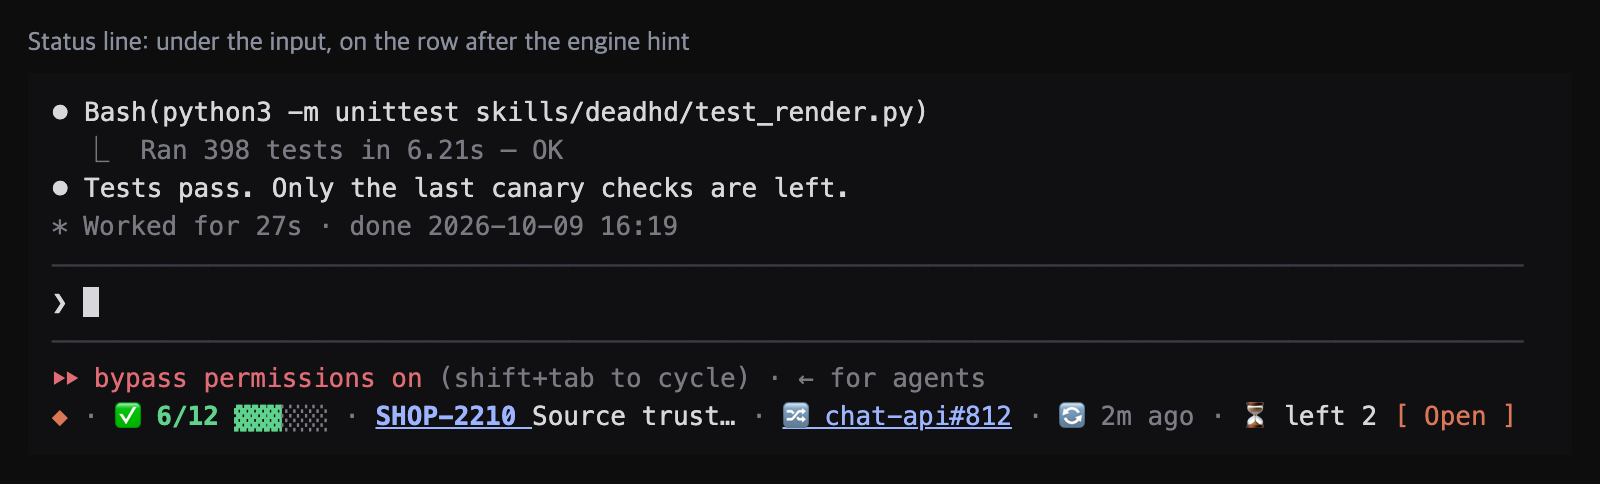
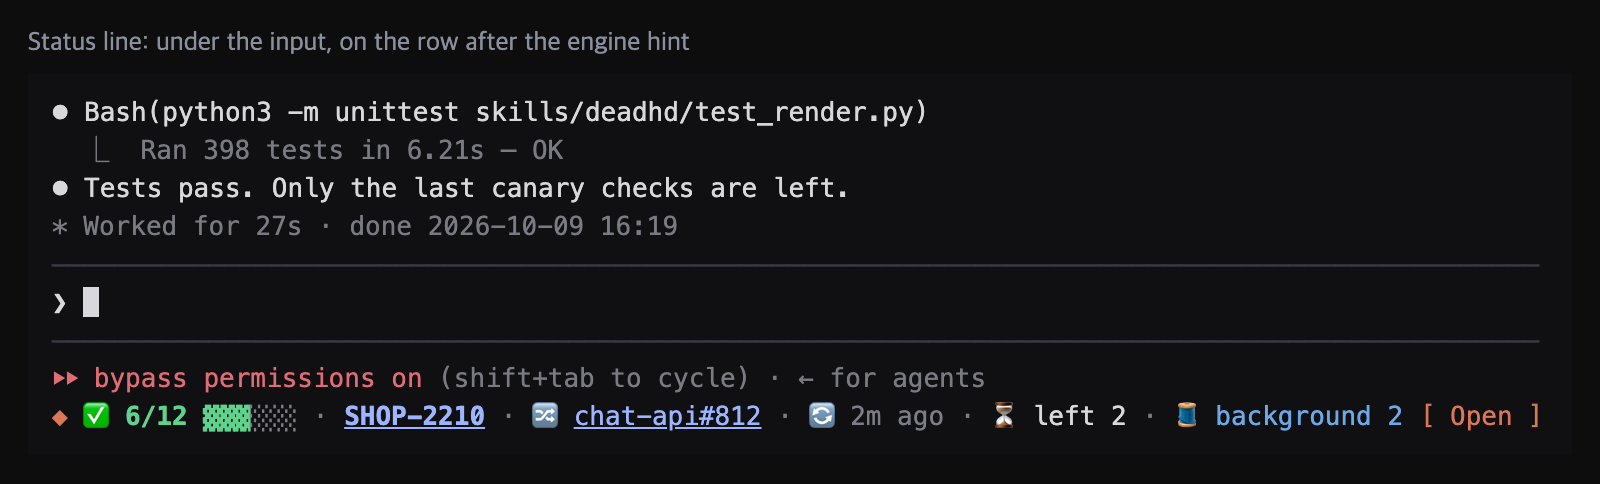
fix: 상태줄 표지 뒤 구분점과 링크 밑줄 범위 정리

Changed region(s): [[0.0312, 0.8058, 0.9688, 0.8988]]

diff --git a/skills/deadhd/hooks/register.test.ts b/skills/deadhd/hooks/register.test.ts
@@ -307,9 +307,15 @@ const FOLDED_GUIDE = '/deadhd-statusline 펼치기'
 /** The pull request the sample's running step carries, as the row draws it. */
 const PR_PIECE = '🔀 app-api#512'
 
+/** The pull request's own words: the part the link wraps, the mark left outside it. */
+const PR_TEXT = 'app-api#512'
+
+/** The mark and the count as one piece: no separator falls between them. */
+const MARK_COUNT = `${STATUS_MARK} ✅ 3/6`
+
 /** The whole long row the sample draws, piece by piece. */
 const LONG_ROW =
-  `${STATUS_MARK} · ✅ 3/6 ▓▓▓░░░ · CAS-1161 콘솔 dev 회귀 3회차 · ` +
+  `${STATUS_MARK} ✅ 3/6 ▓▓▓░░░ · CAS-1161 콘솔 dev 회귀 3회차 · ` +
   '▶ 실제 화면 확인 4분째 · 🔀 app-api#512 · ⏭ 다음 정리 · ⏱ 예상 16:20 · 🔄 2분 전 · ' +
   '⛔ 막힘 1: 배포 검증 · ⏳ 남음 2 · 🧵 백그라운드 2 · 🗜 압축 1'
 
@@ -703,12 +709,27 @@ describe('the status hint', () => {
         'https://github.com/example/app-api/pull/512',
       ])
       expect(textOf(links[0])).toBe('CAS-1161')
-      expect(textOf(links[1])).toBe(PR_PIECE)
+      expect(textOf(links[1])).toBe(PR_TEXT)
+      expect(drawn).toContain(PR_PIECE)
       expect(drawn).toContain('열기')
 
       await ui.unmount()
     })
   }
+
+  test('links the key and the pull request words alone, their neighbours left outside', async ($, on) => {
+    statusWorld(on, filesOf(statusState({}, { title: '다른 제목' })))
+
+    await $.session.start(SESSION)
+
+    const ui = await $.ui.mount({ ...MOUNT_HINT, surface: 'terminal' })
+    const links = await ui.findAll({ type: 'Link' })
+
+    expect(textOf(links[0])).toBe('CAS-1161')
+    expect(textOf(links[1])).toBe(PR_TEXT)
+
+    await ui.unmount()
+  })
 
   test('keeps the button and the way back on the folded row', async ($, on) => {
     statusWorld(on, filesOf(statusState()))
@@ -782,7 +803,8 @@ describe('the status hint', () => {
         color: 'suggestion',
         bold: true,
       })
-      expect(pieceOf(painted, PR_PIECE)).toMatchObject({ color: 'permission' })
+      expect(pieceOf(painted, '🔀')).toMatchObject({ color: 'permission' })
+      expect(pieceOf(painted, PR_TEXT)).toMatchObject({ color: 'permission' })
       expect(pieceOf(painted, '⏭ 다음 정리')?.color).toBe('inactive')
       expect(pieceOf(painted, '⏱ 예상 16:20')?.color).toBe('planMode')
       expect(pieceOf(painted, '🔄 2분 전')?.color).toBe('subtle')
@@ -1096,7 +1118,17 @@ describe('formatLine', () => {
       summary: { title: '작은 판', lang: 'ko', total: 1, counts: { done: 1 } },
     })
 
-    expect(formatLine(bare, NOW, 240)).toBe(`${STATUS_MARK} · ✅ 1/1 ▓▓▓▓▓▓ · 작은 판`)
+    expect(formatLine(bare, NOW, 240)).toBe(`${STATUS_MARK} ✅ 1/1 ▓▓▓▓▓▓ · 작은 판`)
+  })
+
+  test('draws the mark against the count, no separator between them', () => {
+    const row = formatLine(STATE, NOW, 240)
+
+    expect(row.startsWith(MARK_COUNT)).toBe(true)
+    expect(row).not.toContain(`${STATUS_MARK} ·`)
+    // The bar's own cells go without the mark going with them: the mark is the
+    // count's first piece, not a field the row can drop.
+    expect(formatLine({ ...STATE!, key: null, title: '' }, NOW, 4)).toBe(MARK_COUNT)
   })
 
   test('names the next left step after the current one, not before it', () => {
@@ -1107,7 +1139,7 @@ describe('formatLine', () => {
     const alone = normalize(stateOf({ data: '' }))
 
     expect(formatLine(alone, NOW, 240)).toBe(
-      `${STATUS_MARK} · ✅ 3/6 ▓▓▓░░░ · CAS-1161 콘솔 dev 회귀 3회차 · ` +
+      `${STATUS_MARK} ✅ 3/6 ▓▓▓░░░ · CAS-1161 콘솔 dev 회귀 3회차 · ` +
         '▶ 실제 화면 확인 · 🔀 app-api#512 · ⏱ 예상 16:20 · 🔄 2분 전 · ⛔ 막힘 1 · ⏳ 남음 2 · ' +
         '🧵 백그라운드 2 · 🗜 압축 1',
     )
@@ -1142,8 +1174,8 @@ describe('formatLine', () => {
   test('gives the pieces up in the order the row can spare them, down to the count', () => {
     const bare = { ...STATE!, key: null, title: '' }
     // Everything but the mark and the count goes before the bar's own cells do.
-    const kept = `${STATUS_MARK} · ✅ 3/6 ▓▓▓░░░`
-    const bar = `${STATUS_MARK} · ✅ 3/6`
+    const kept = `${MARK_COUNT} ▓▓▓░░░`
+    const bar = MARK_COUNT
 
     expect(formatLine(bare, NOW, cellWidth(kept))).toBe(kept)
     expect(formatLine(bare, NOW, cellWidth(bar))).toBe(bar)
@@ -1154,7 +1186,7 @@ describe('formatLine', () => {
   })
 
   test('gives up the pull request before the count, the title taking the cells it leaves', () => {
-    const withPr = `${STATUS_MARK} · ✅ 3/6 ▓▓▓░░░ · CAS-1161 · ${PR_PIECE}`
+    const withPr = `${MARK_COUNT} ▓▓▓░░░ · CAS-1161 · ${PR_PIECE}`
 
     expect(formatLine(STATE, NOW, cellWidth(withPr))).toBe(withPr)
 

diff --git a/skills/deadhd/hooks/register.tsx b/skills/deadhd/hooks/register.tsx
@@ -9,9 +9,9 @@ const REFRESH_MS = 5000
 /** PromptHint hands the tree no width, so this is the budget its pieces are cut to. */
 const STATUS_COLS = 240
 /**
- * Cells the hint line is indented by, on each side, inside the surface's own
- * width: `e.viewport.columns` is the whole screen, so the line drawn in the
- * indented slot must have them taken off its budget.
+ * Cells the hint line is indented by, the indent on both sides together, inside
+ * the surface's own width: `e.viewport.columns` is the whole screen, so the line
+ * drawn in the indented slot must have them taken off its budget.
  */
 const HINT_INSET = 4
 /** Cells the progress bar draws; `done/total` is rounded onto them. */
@@ -495,17 +495,22 @@ const bandAlertFields = (state: DeadhdState, now: number): Field[] => {
 /** The status line's pieces, in the order the long row draws them. */
 const statusFields = (state: DeadhdState, now: number): Field[] => {
   const words = WORDS[state.lang]
-  const fields: Field[] = [{ tag: 'name', parts: [{ text: STATUS_MARK, tone: 'claude', bold: true }] }]
+  const fields: Field[] = []
 
   if (state.total > 0) {
+    // The mark rides in the count's own field, so no separator falls between it
+    // and the count; the bar's cells can go without taking the mark with them.
     fields.push({
       tag: 'count',
       parts: [
+        { text: `${STATUS_MARK} `, tone: 'claude', bold: true },
         { text: `✅ ${state.done}/${state.total}`, tone: 'success', bold: true },
         { text: ' ', tone: 'plain' },
         ...barParts(state.done, state.total),
       ],
     })
+  } else {
+    fields.push({ tag: 'name', parts: [{ text: STATUS_MARK, tone: 'claude', bold: true }] })
   }
 
   const heading = headingParts(state)
@@ -521,7 +526,10 @@ const statusFields = (state: DeadhdState, now: number): Field[] => {
   if (state.pr !== null) {
     fields.push({
       tag: 'pr',
-      parts: [{ text: `🔀 ${state.pr.text}`, tone: 'permission', href: state.pr.href }],
+      parts: [
+        { text: '🔀 ', tone: 'permission' },
+        { text: state.pr.text, tone: 'permission', href: state.pr.href },
+      ],
     })
   }
 
@@ -601,9 +609,7 @@ const headingParts = (state: DeadhdState): Segment[] => {
   const body = titleAfterKey(state.title, key)
 
   if (body === null) {
-    return state.title === ''
-      ? [piece]
-      : [{ ...piece, text: `${key} ` }, { text: state.title, tone: 'text' }]
+    return state.title === '' ? [piece] : [piece, { text: ` ${state.title}`, tone: 'text' }]
   }
 
   return body === '' ? [piece] : [piece, { text: body, tone: 'text' }]
